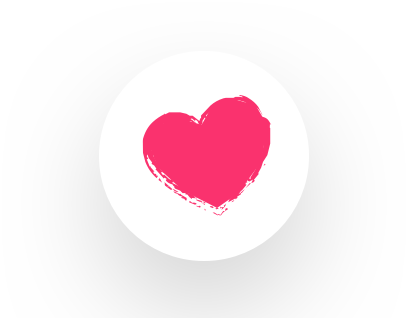
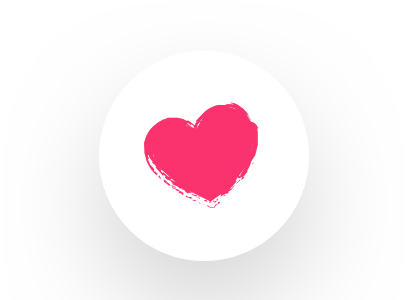
Flex settings for final layout

Changed region(s): [[0.3235, 0.3, 0.6765, 0.69], [0.2941, 0.72, 0.7059, 0.87]]

diff --git a/FindMyCrush/App.js b/FindMyCrush/App.js
@@ -55,15 +55,16 @@ class HomeScreen extends React.Component {
     return (
       <View style={{ flex: 1 }}>
         <Image source={bgImag} style={{ position: 'absolute', top: 0, bottom: 0, right: 0, left: 0 }} />
-        <View style={{ flex: 2, justifyContent: 'center', alignItems: 'center' }}>
+        <View style={{ height: '46.66666%', justifyContent: 'flex-end', alignItems: 'center', overflow: 'hidden' }}>
           <Animatable.Image
             animation="pulse"
             easing="ease-out"
             iterationCount={4}
             source={theHeart}
-            style={{ height: 195, width: 265, marginTop: 150 }}
+            style={{ height: 195, width: 265 }}
           />
-
+        </View>
+        <View style={{ height: '20%', justifyContent: 'center', alignItems: 'center' }}>
           <Text
             style={{
               textAlign: 'center',
@@ -88,10 +89,12 @@ class HomeScreen extends React.Component {
             </Text>
           </Text>
         </View>
-        <View style={{ flex: 1, justifyContent: 'center', alignItems: 'center' }}>
-          <TouchableOpacity onPress={this._fbAuth}>
-            <Image source={fbBtnMain} style={{ height: 59, width: 306, marginTop: 0, borderRadius: 25 }} />
-          </TouchableOpacity>
+        <View style={{ height: '33.33333%', justifyContent: 'center', alignItems: 'center' }}>
+          <View Style={{ height: '15%', paddingRight: 20, paddingLeft: 20 }}>
+            <TouchableOpacity onPress={() => navigate('MarkingCrush')}>
+              <Image source={fbBtnMain} style={{ height: 59, width: 306, borderRadius: 25 }} />
+            </TouchableOpacity>
+          </View>
 
           <Animatable.Text
             animation="pulse"
@@ -136,7 +139,7 @@ class MarkCrushes extends React.Component {
     };
 
     let HeartBtn = {
-      uri: '/Users/melliferalabs/Desktop/project/FindMyCrush/src/images/heart_Button@3x.png'
+      uri: '/Users/melliferalabs/Desktop/project/FindMyCrush/src/images/heart_Basdasddnal@3x.png'
     };
 
     let Crushes = {
@@ -149,64 +152,72 @@ class MarkCrushes extends React.Component {
     return (
       <View style={{ flex: 1 }}>
         <Image source={bgImag} style={{ position: 'absolute', top: 0, bottom: 0, right: 0, left: 0 }} />
-        <View Style={{ flex: 1, flexDirection: 'column' }}>
+        <View Style={{ flex: 1, justifyContent: 'center', alignItems: 'flex-end' }}>
           <Animatable.Text
             animation="bounceIn"
             iterationCount={1}
             delay={350}
             style={{
               textAlign: 'center',
-              marginTop: 45,
               backgroundColor: 'transparent',
               color: '#FCFCFC',
-              padding: 20,
+              paddingTop: 30,
               fontSize: 30,
-              fontFamily: 'Norican-Regular'
+              fontFamily: 'Norican-Regular',
+              lineHeight: 32
             }}
           >
             Find My {'\n'} Crush
           </Animatable.Text>
         </View>
-        <View style={{ flex: 2, flexDirection: 'column', justifyContent: 'center', alignItems: 'center' }}>
-          <Image source={profiles} style={{ height: 310, width: 353, marginTop: 10 }} />
 
-          <Text
-            style={{
-              textAlign: 'center',
-              backgroundColor: 'transparent',
-              fontSize: 25,
-              color: '#FCFCFC',
-              paddingTop: 5,
-              fontFamily: 'NunitoSans-Bold'
-            }}
-          >
-            Myrtie Bell
-          </Text>
+        <View style={{ flex: 3, flexDirection: 'column', alignItems: 'center' }}>
+          <View Style={{ flex: 2.5, justifyContent: 'flex-end', overflow: 'hidden' }}>
+            <Image
+              source={profiles}
+              style={{ flex: 0.85, height: 310, width: 353, marginTop: 20 }}
+              resizeMode={'contain'}
+            />
+          </View>
+          <View Style={{ flex: 0.5, justifyContent: 'flex-start' }}>
+            <Text
+              style={{
+                textAlign: 'center',
+                backgroundColor: 'transparent',
+                fontSize: 20,
+                color: '#FCFCFC',
+
+                fontFamily: 'NunitoSans-Bold'
+              }}
+            >
+              Myrtie Bell
+            </Text>
+          </View>
         </View>
 
-        <View style={{ flex: 1, flexDirection: 'row', justifyContent: 'space-between' }}>
-          <View style={{ flex: 1, justifyContent: 'flex-end' }}>
+        <View style={{ flex: 1, flexDirection: 'row' }}>
+          <View style={{ width: '25%', alignItems: 'flex-start', justifyContent: 'flex-end' }}>
             <TouchableOpacity onPress={() => navigate('Profile')}>
-              <Image source={Myprofile} style={{ height: 80, width: 80, marginTop: 10, right: -0 }} />
+              <Image source={Myprofile} style={{ height: 80, width: 80 }} resizeMode={'contain'} />
             </TouchableOpacity>
           </View>
-          <View style={{ flex: 1, justifyContent: 'center' }}>
+          <View style={{ width: '25%', alignItems: 'flex-start' }}>
             <TouchableOpacity onPress={this._onPressButton}>
               <Image source={SkipCrushes} style={{ height: 63, width: 70 }} />
             </TouchableOpacity>
           </View>
-          <View style={{ flex: 1, justifyContent: 'center' }}>
+          <View style={{ width: '25%', alignItems: 'flex-end' }}>
             <TouchableOpacity onPress={this._onPressButton}>
               <Animatable.Image
                 animation="pulse"
                 easing="ease-in-out-expo"
                 iterationCount="infinite"
                 source={HeartBtn}
-                style={{ height: 100, width: 126 }}
+                style={{ height: 70, width: 70, marginTop: -5 }}
               />
             </TouchableOpacity>
           </View>
-          <View style={{ flex: 1, justifyContent: 'flex-end', alignItems: 'flex-end' }}>
+          <View style={{ width: '25%', justifyContent: 'flex-end', alignItems: 'flex-end' }}>
             <TouchableOpacity onPress={() => navigate('CrushMatches')}>
               <Image source={Crushes} style={{ height: 80, width: 80 }} />
             </TouchableOpacity>
@@ -251,34 +262,39 @@ class MainUserProfile extends React.Component {
       <View style={{ flex: 1 }}>
         <Image source={bgImag} style={{ position: 'absolute', top: 0, bottom: 0, right: 0, left: 0 }} />
 
-        <View style={{ flex: 2, alignItems: 'center' }}>
-          <Image source={ProfilePic} style={{ height: 160, width: 160, marginTop: 50 }} />
-          <Text
-            style={{
-              backgroundColor: 'transparent',
-              fontSize: 20,
-              color: '#FCFCFC',
-              textAlign: 'center',
-              fontFamily: 'NunitoSans-Bold'
-            }}
-          >
-            kevin Warren
-          </Text>
-          <Animatable.Text
-            animation="pulse"
-            easing="ease-out"
-            iterationCount="infinite"
-            style={{
-              textAlign: 'center',
-              fontSize: 15,
-              marginTop: 15,
-              backgroundColor: 'transparent',
-              color: '#FCFCFC',
-              fontFamily: 'NunitoSans-Bold'
-            }}
-          >
-            INTERESTED IN
-          </Animatable.Text>
+        <View style={{ flex: 3, alignItems: 'center' }}>
+          <View style={{ flex: 2, paddingTop: 25 }}>
+            <Image source={ProfilePic} style={{ height: 160, width: 160 }} />
+          </View>
+          <View style={{ flex: 1 }}>
+            <Text
+              style={{
+                backgroundColor: 'transparent',
+                fontSize: 20,
+                color: '#FCFCFC',
+                textAlign: 'center',
+                fontFamily: 'NunitoSans-Bold',
+                marginTop: 5
+              }}
+            >
+              kevin Warren
+            </Text>
+            <Animatable.Text
+              animation="pulse"
+              easing="ease-out"
+              iterationCount="infinite"
+              style={{
+                textAlign: 'center',
+                fontSize: 15,
+                marginTop: 10,
+                backgroundColor: 'transparent',
+                color: '#FCFCFC',
+                fontFamily: 'NunitoSans-Bold'
+              }}
+            >
+              INTERESTED IN
+            </Animatable.Text>
+          </View>
         </View>
 
         <View
@@ -327,17 +343,17 @@ class MainUserProfile extends React.Component {
           >
             30
           </Text>
-          <View style={{ alignItems: 'center', marginTop: 5 }}>
-            <TouchableOpacity onPress={this._onPressButton}>
-              <Animatable.Image
-                animation="pulse"
-                easing="ease-in"
-                iterationCount={5}
-                source={buyNowBtn}
-                style={{ height: 48, width: 200 }}
-              />
-            </TouchableOpacity>
-          </View>
+        </View>
+        <View style={{ alignItems: 'center', marginTop: 5 }}>
+          <TouchableOpacity onPress={this._onPressButton}>
+            <Animatable.Image
+              animation="pulse"
+              easing="ease-in"
+              iterationCount={5}
+              source={buyNowBtn}
+              style={{ height: 48, width: 200 }}
+            />
+          </TouchableOpacity>
         </View>
 
         <View style={{ flex: 1, flexDirection: 'row' }}>
